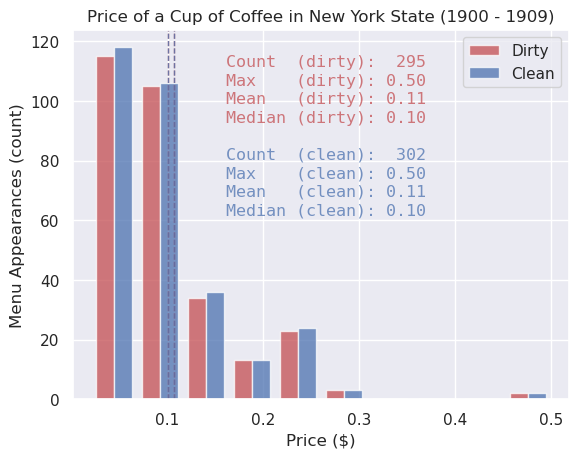
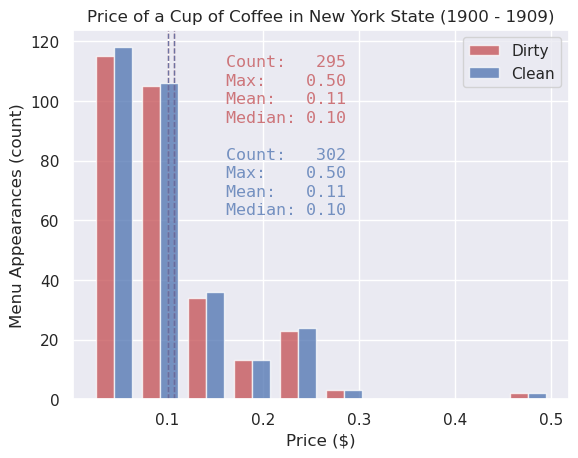
Clearer chart title and text

diff --git a/src/main.py b/src/main.py
@@ -156,7 +156,7 @@ def save_menu_profile(dirty: List[int], clean: List[int]) -> None:
 def save_dish_profile(dirty: int, clean: int) -> None:
     sns.set_theme()
     plt.bar(x=['Dirty Data', 'Clean Data'], height=[dirty, clean], alpha=0.75)
-    plt.title('Dishes Synonymous with "Cup of Coffee"')
+    plt.title('Dishes Matching the "is_cup_of_coffee" Regex')
     plt.savefig("doc/dish-name-coffee-bar-chart.png", bbox_inches='tight')
     plt.close()
 
@@ -176,14 +176,14 @@ def save_query_result(dirty: List[float], clean: List[float]) -> None:
     _, y = plt.ylim()
     font = plt.rcParams['font.family']
     plt.rcParams['font.family'] = 'monospace'
-    plt.text(x, y * 0.90, f"Count  (dirty): {len(dirty):4}",      color='r', alpha=0.75)
-    plt.text(x, y * 0.85, f"Max    (dirty): {max(dirty):.2f}",    color='r', alpha=0.75)
-    plt.text(x, y * 0.80, f"Mean   (dirty): {mean(dirty):.2f}",   color='r', alpha=0.75)
-    plt.text(x, y * 0.75, f"Median (dirty): {median(dirty):.2f}", color='r', alpha=0.75)
-    plt.text(x, y * 0.65, f"Count  (clean): {len(clean):4}",      color='b', alpha=0.75)
-    plt.text(x, y * 0.60, f"Max    (clean): {max(clean):.2f}",    color='b', alpha=0.75)
-    plt.text(x, y * 0.55, f"Mean   (clean): {mean(clean):.2f}",   color='b', alpha=0.75)
-    plt.text(x, y * 0.50, f"Median (clean): {median(clean):.2f}", color='b', alpha=0.75)
+    plt.text(x, y * 0.90, f"Count:  {len(dirty):4}",      color='r', alpha=0.75)
+    plt.text(x, y * 0.85, f"Max:    {max(dirty):.2f}",    color='r', alpha=0.75)
+    plt.text(x, y * 0.80, f"Mean:   {mean(dirty):.2f}",   color='r', alpha=0.75)
+    plt.text(x, y * 0.75, f"Median: {median(dirty):.2f}", color='r', alpha=0.75)
+    plt.text(x, y * 0.65, f"Count:  {len(clean):4}",      color='b', alpha=0.75)
+    plt.text(x, y * 0.60, f"Max:    {max(clean):.2f}",    color='b', alpha=0.75)
+    plt.text(x, y * 0.55, f"Mean:   {mean(clean):.2f}",   color='b', alpha=0.75)
+    plt.text(x, y * 0.50, f"Median: {median(clean):.2f}", color='b', alpha=0.75)
     plt.rcParams['font.family'] = font
     plt.savefig(f"doc/coffee-price-histogram.png", bbox_inches='tight')
     plt.close()
